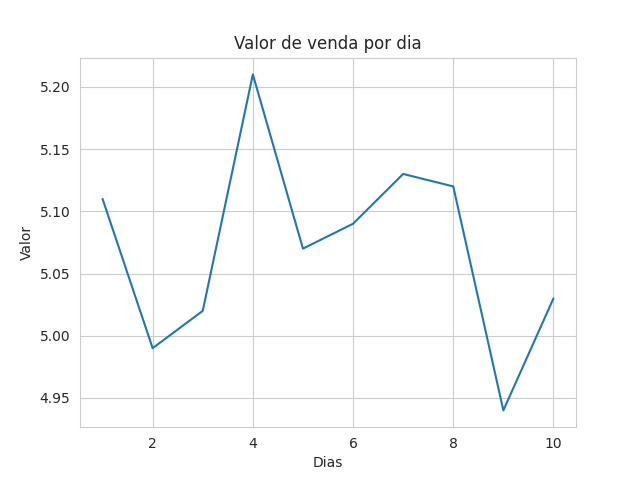
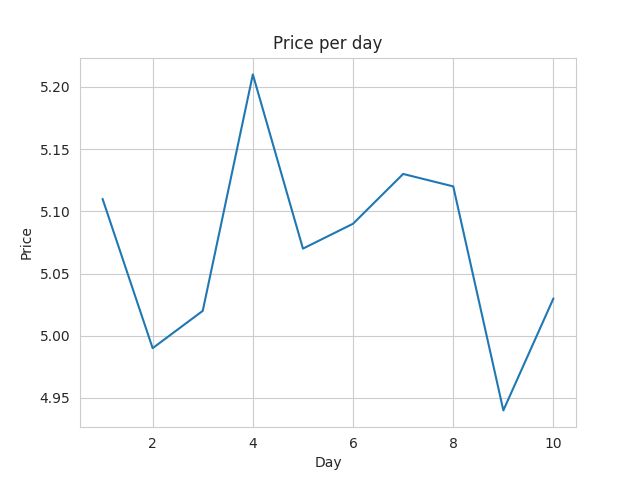
atualizando arquivos

Changed region(s): [[0.375, 0.0625, 0.6562, 0.125], [0.4688, 0.9375, 0.5312, 1.0], [0.0312, 0.4688, 0.0625, 0.5625]]

diff --git a/gasolina.py b/gasolina.py
@@ -7,5 +7,5 @@ df = pd.read_csv('gasolina.csv')
 
 with sns.axes_style('whitegrid'):
   grafico = sns.lineplot(data=df, x="dia", y="venda", errorbar=None)
-  grafico.set(title='Valor de venda por dia', xlabel='Dias', ylabel='Valor')
+  grafico.set(title='Price per day', xlabel='Day', ylabel='Price')
 plt.savefig('gasolina.png')
